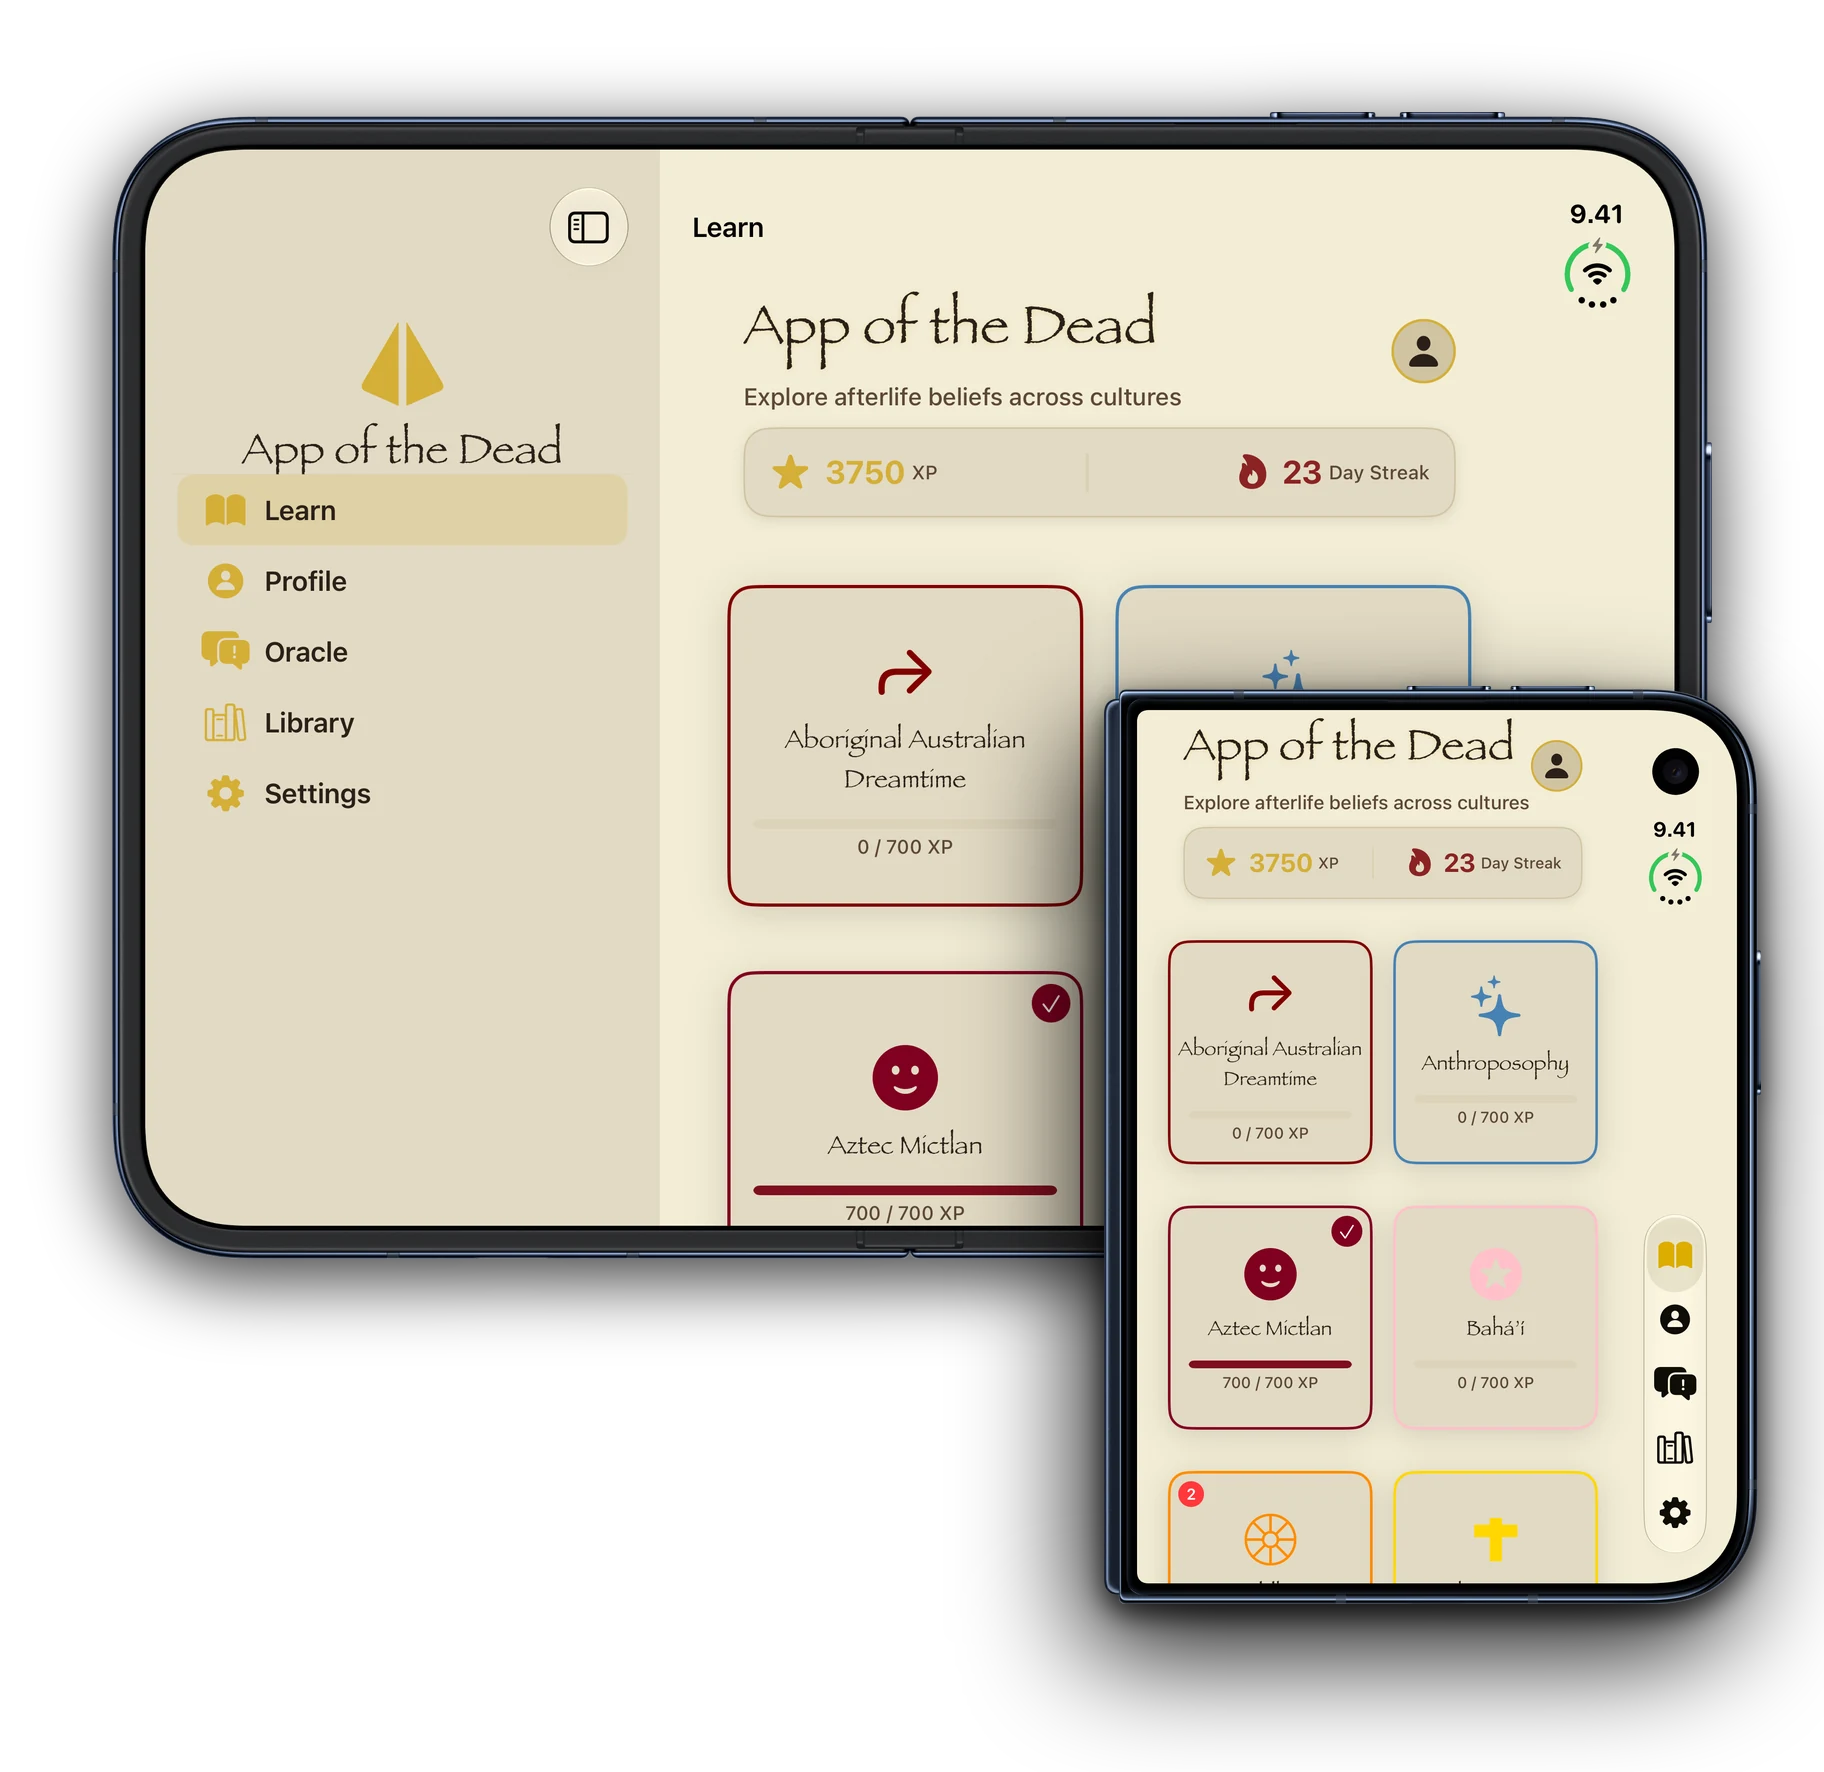
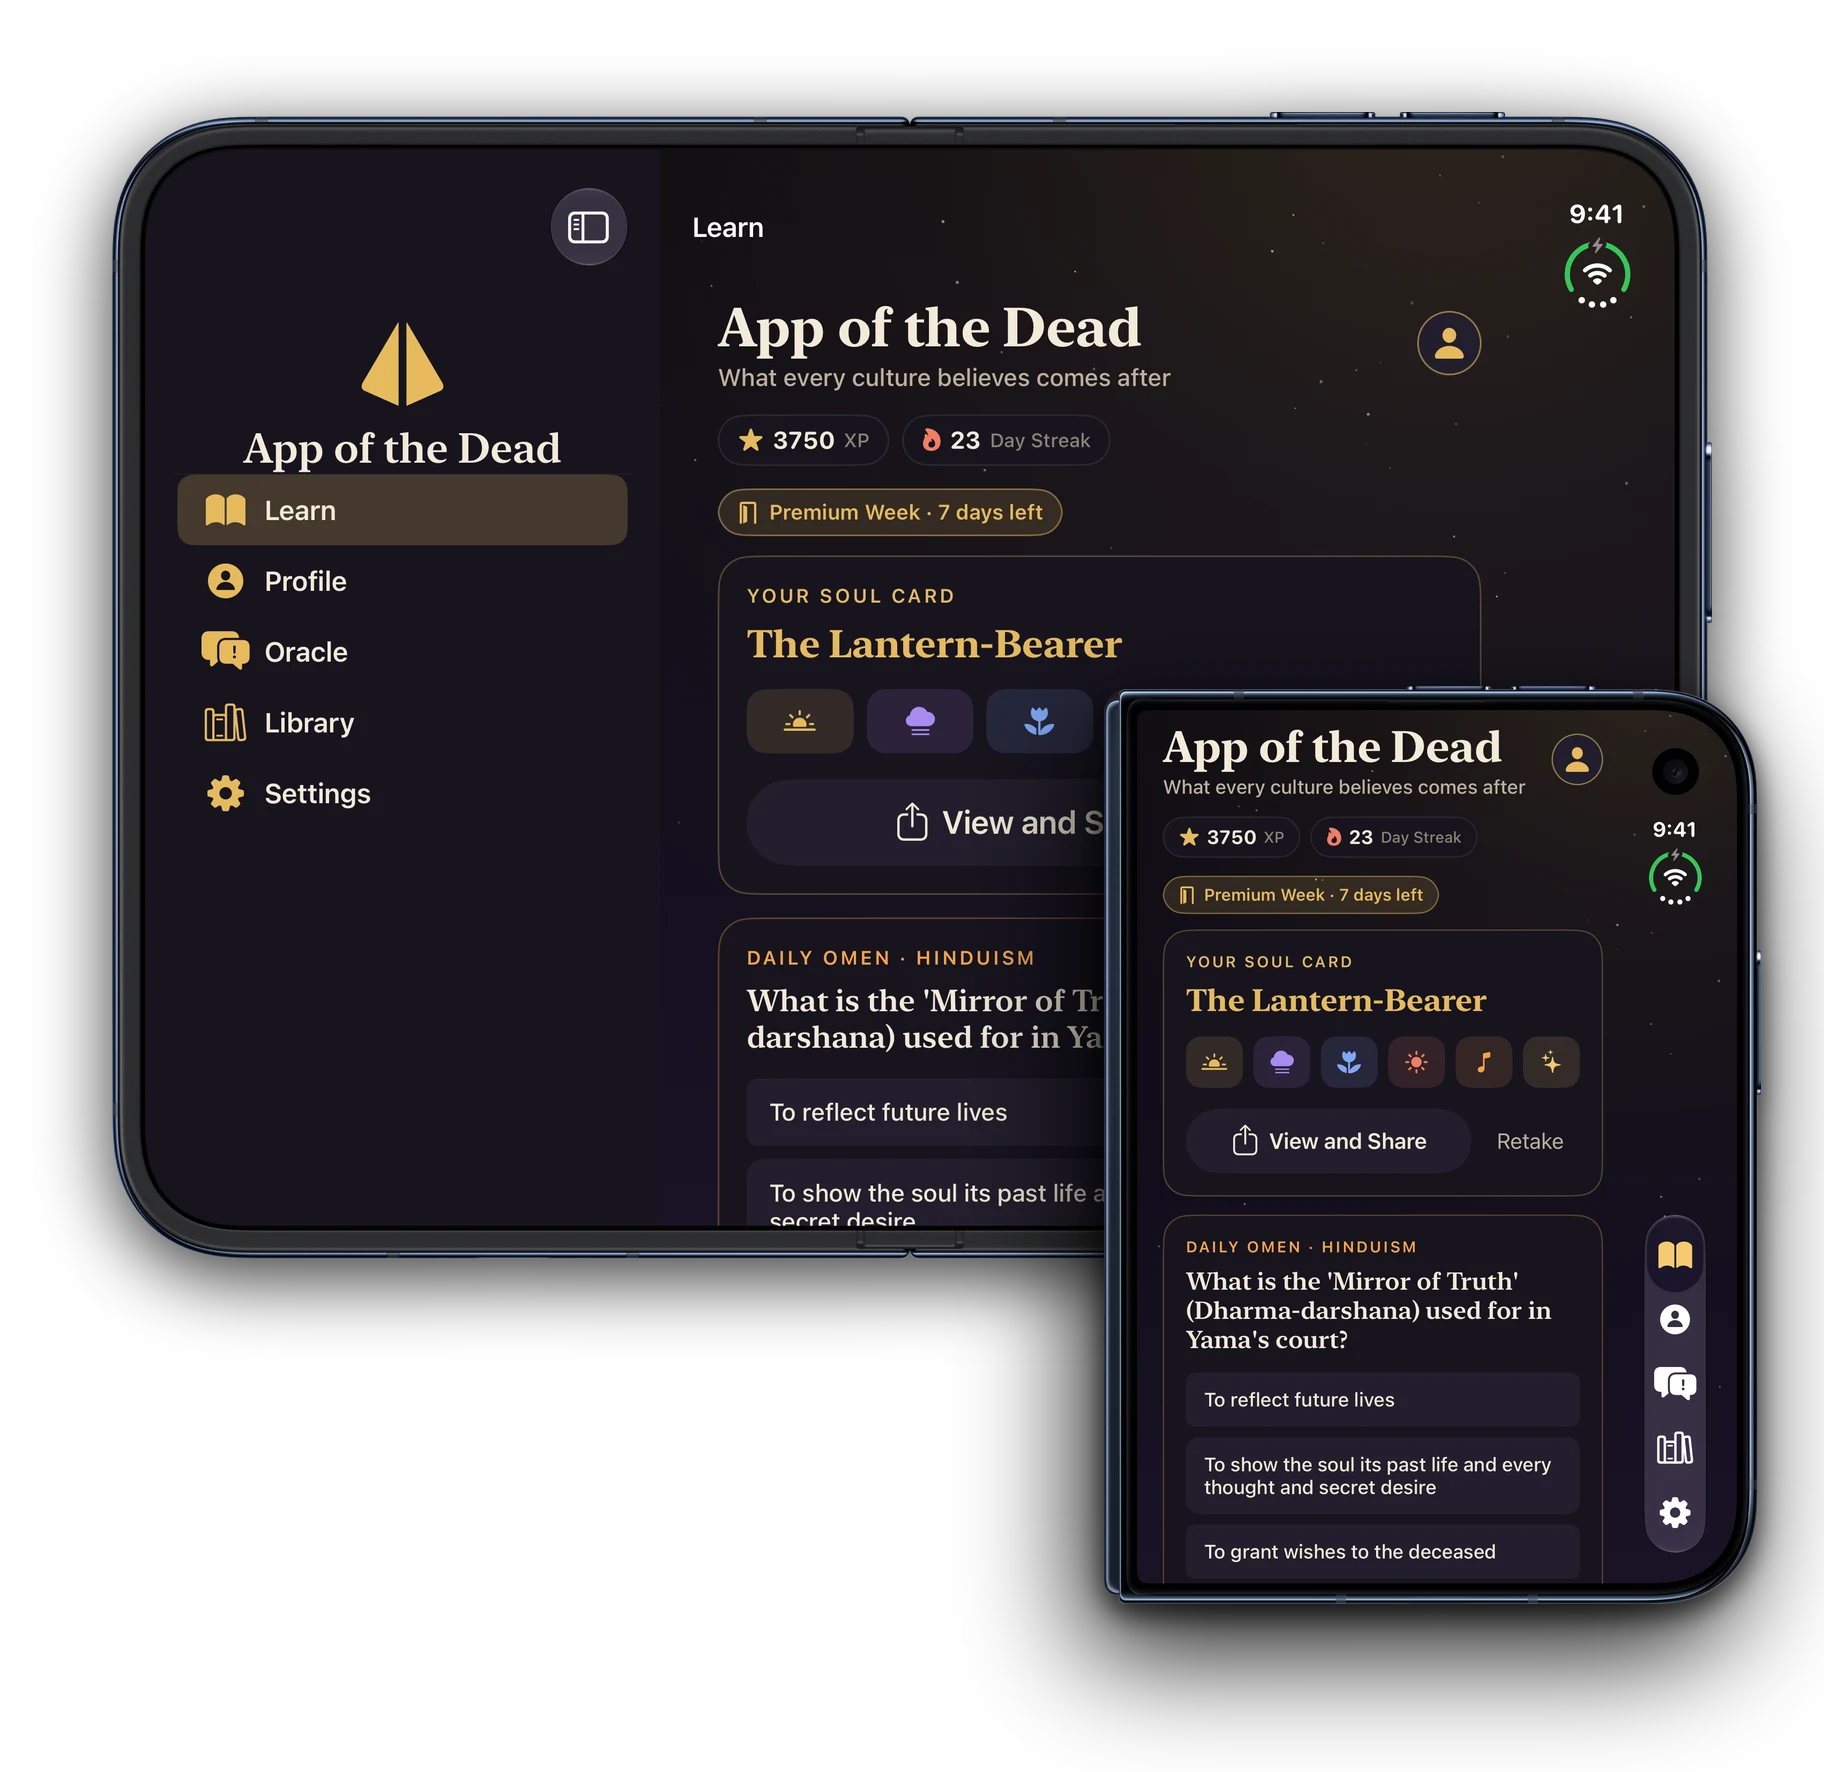
midgarcorp.cc's App of the Dead iPhone Duo picture shows 2.0: Home with the Soul Card and the Daily Omen on the outer and the open inner display, DUO_REV 2

diff --git a/src/data/duo.ts b/src/data/duo.ts
@@ -14,7 +14,7 @@ export interface DuoCombo {
 }
 
 /// Bump when a combo image is regenerated so browsers refetch the stable path.
-const DUO_REV = '1';
+const DUO_REV = '2';
 
 const entries = manifest as Record<string, DuoEntry>;
 
